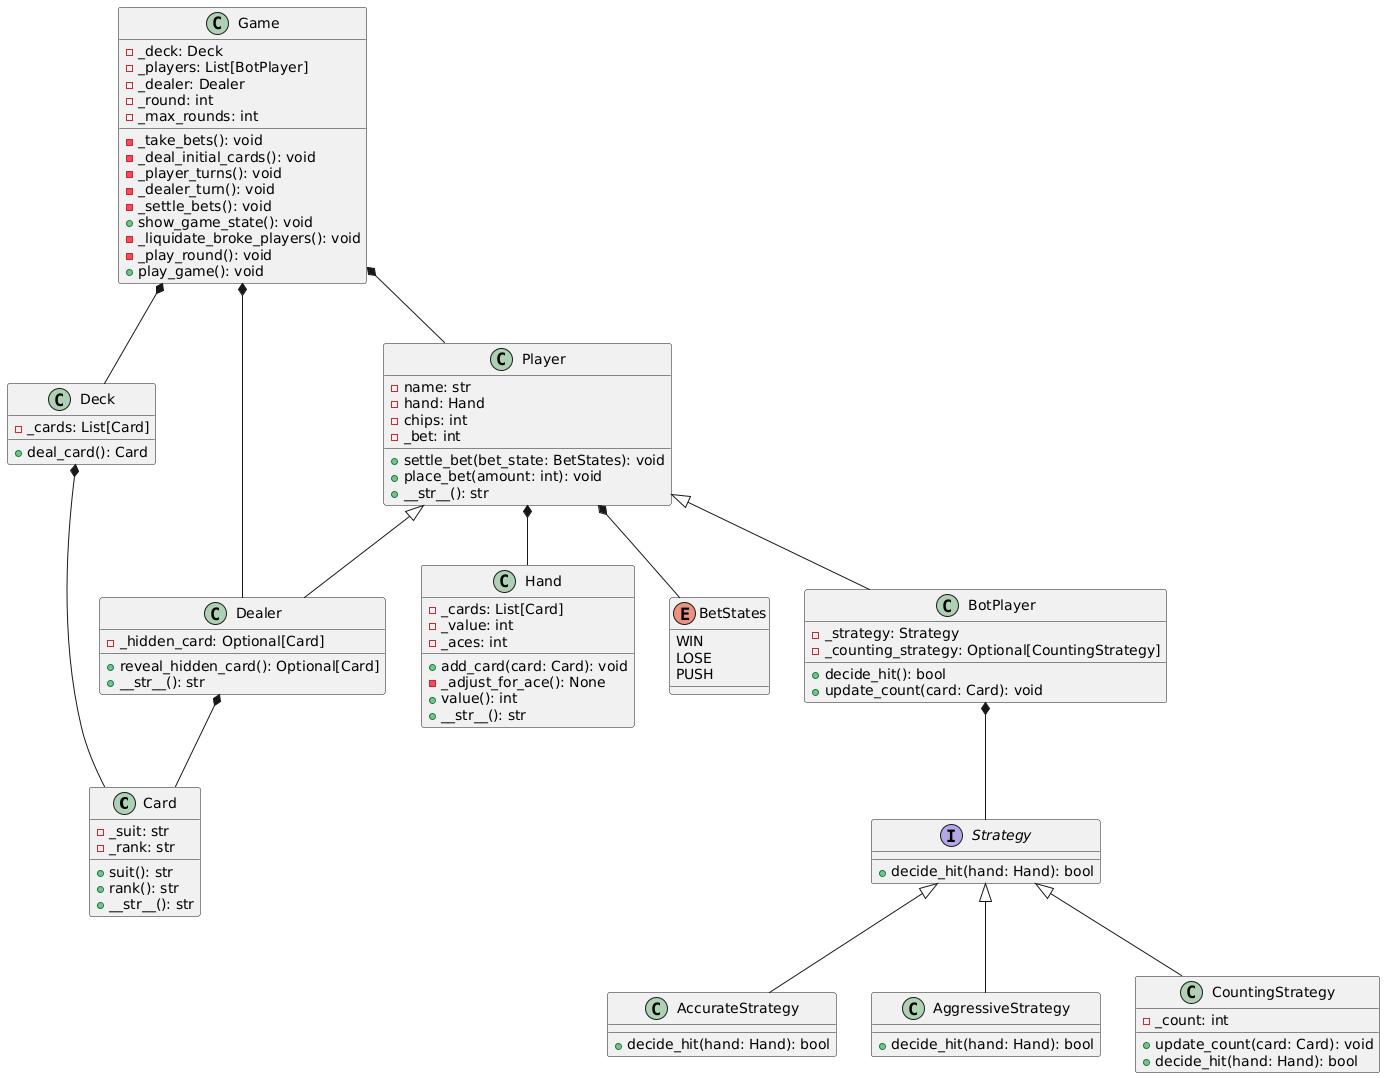
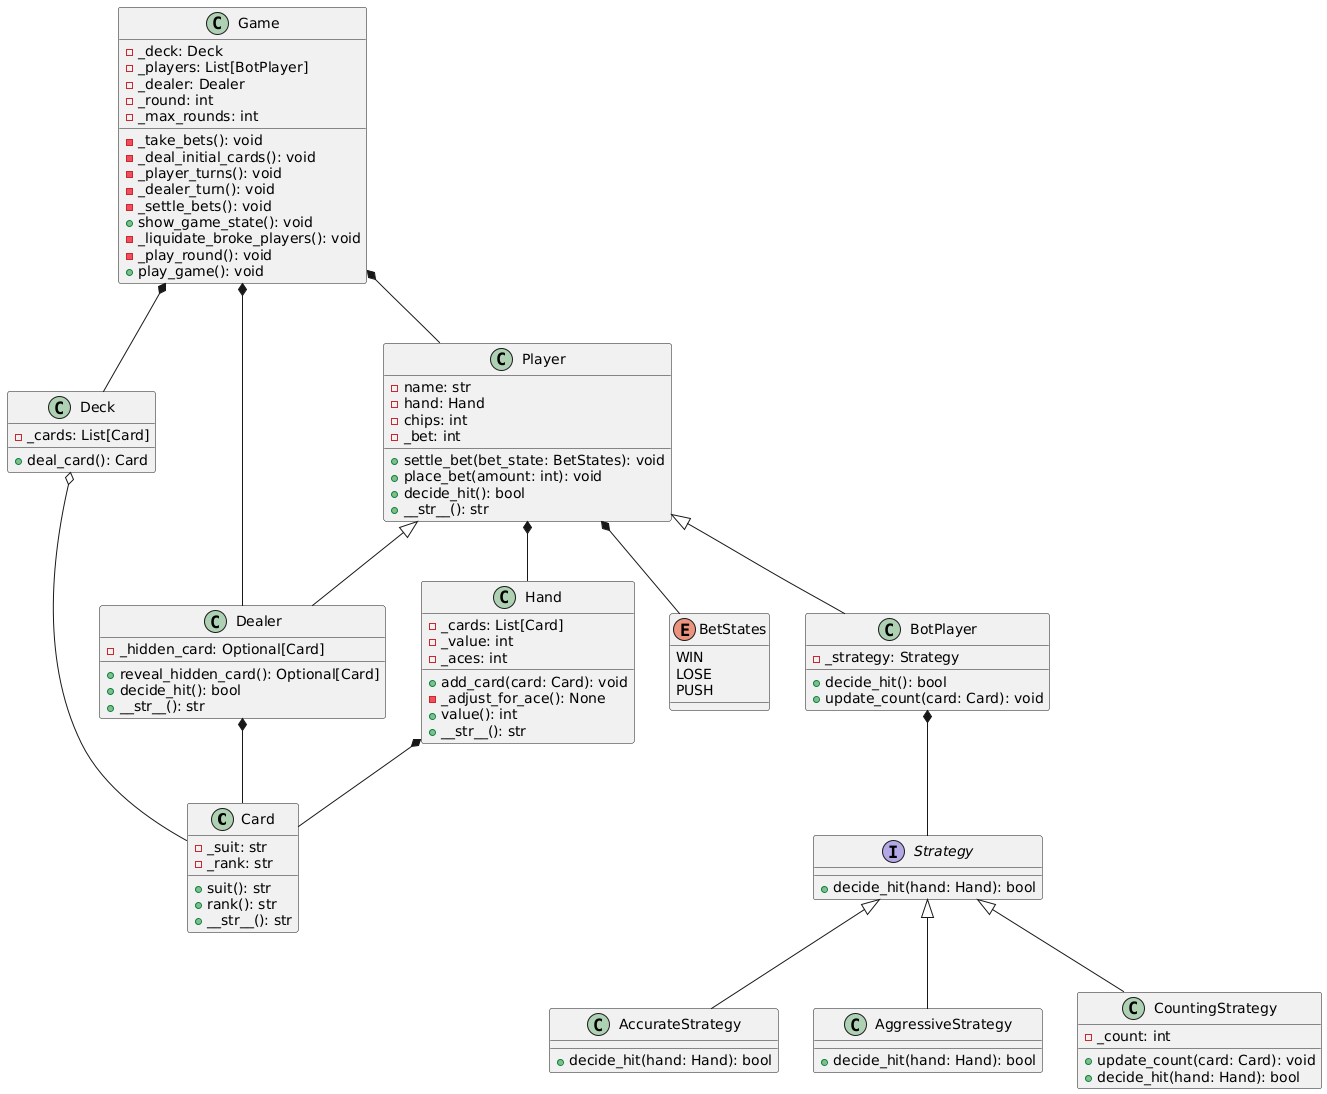
docs(blackjack): Correct UML diagram

diff --git a/project/blackjack/src/players.py b/project/blackjack/src/players.py
@@ -1,7 +1,7 @@
 from abc import ABC, abstractmethod
 from enum import Enum
 from typing import Optional
-from project.blackjack.src.strategies import CountingStrategy, Strategy
+from project.blackjack.src.strategies import Strategy
 from project.blackjack.src.objects import Card, Hand
 
 
